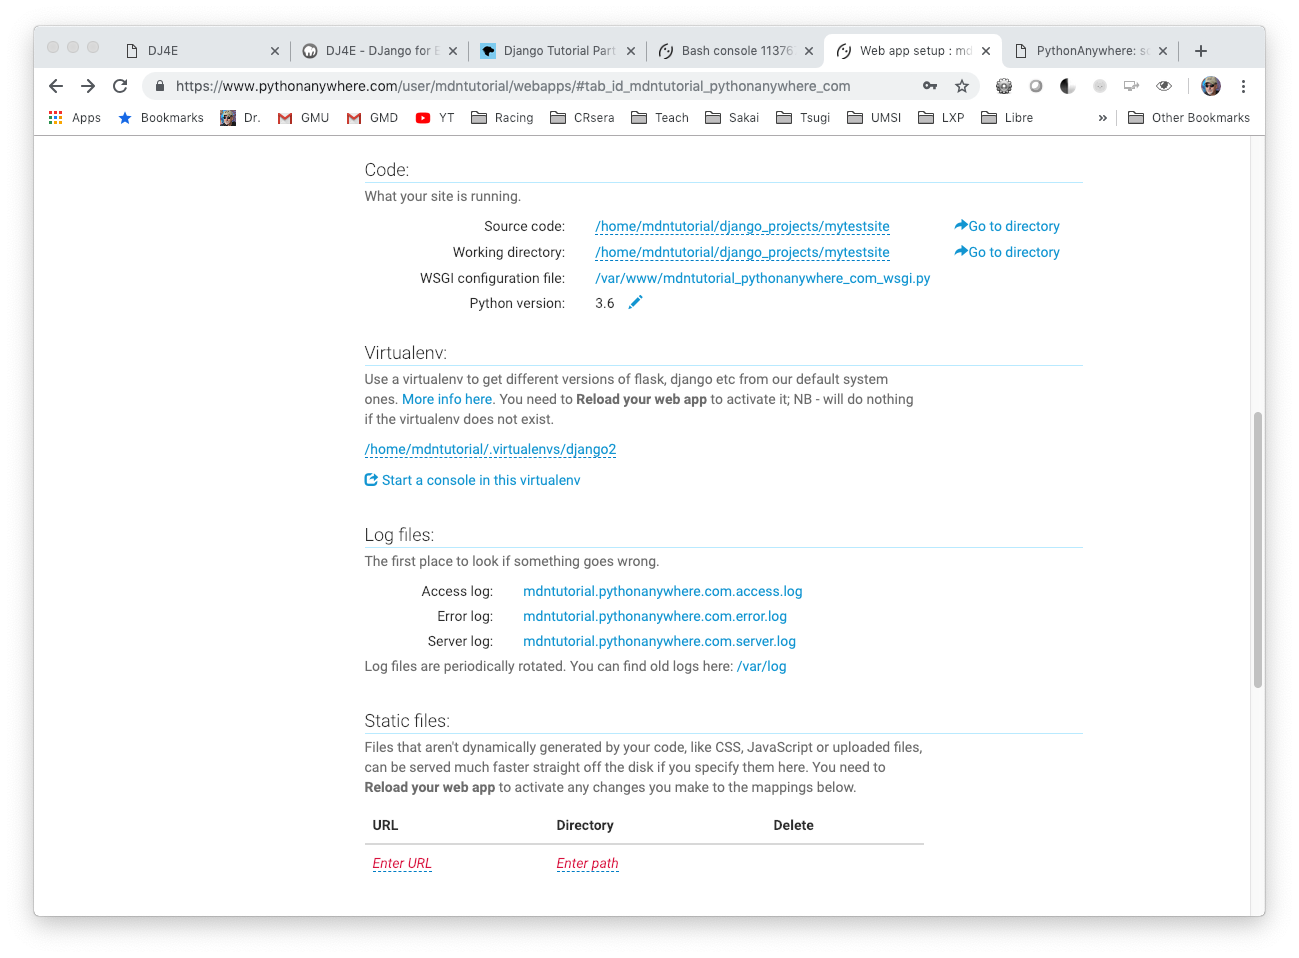
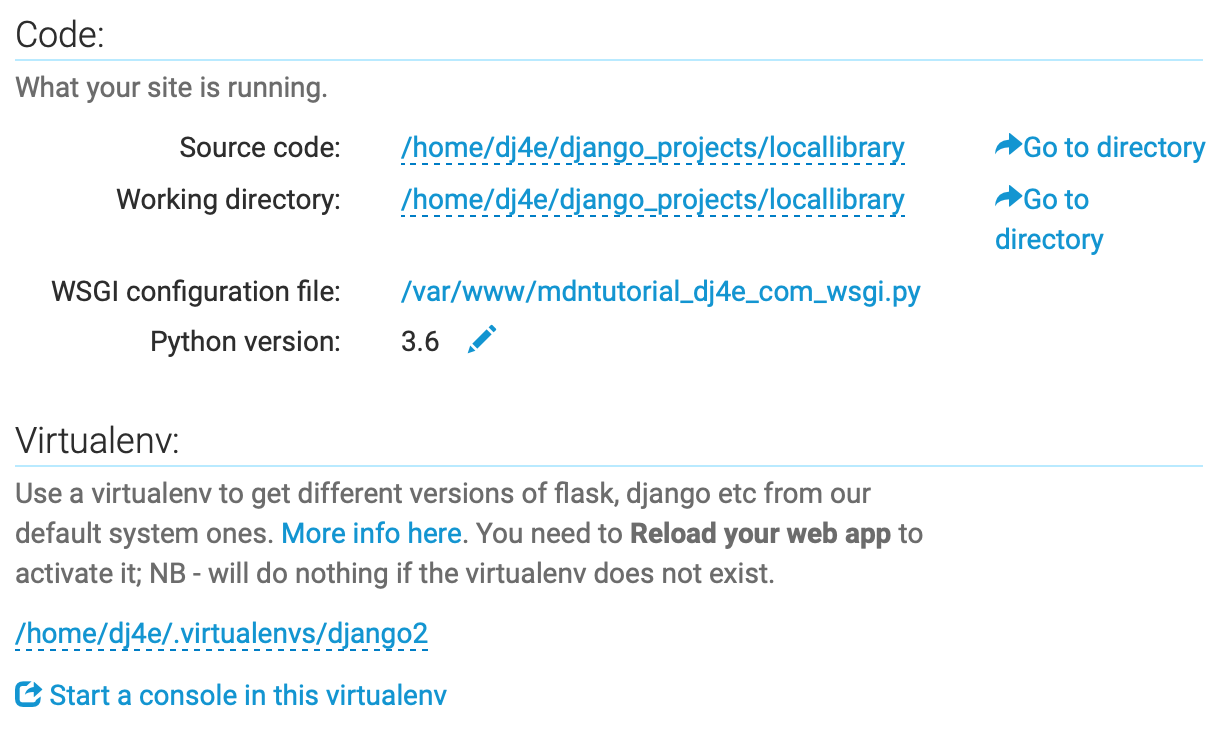
Updates

Changed region(s): [[0.0, 0.0301, 0.9894, 0.9945], [0.0309, 0.3616, 0.773, 0.5123], [0.0928, 0.2411, 0.2783, 0.3014]]

diff --git a/assn/paw_skeleton.md b/assn/paw_skeleton.md
@@ -79,14 +79,18 @@ at this point in time.  In the PYAW shell:
     python3 manage.py makemigrations
     python3 manage.py migrate
 
-Web Tab
+On the Web tab
+<a href="paw_skeleton/webapp_config.png" target="_blank">Sample image</a>,
+update the following values: 
 
-    Source code: /home/mdntutorial/django_projects/locallibrary
-    Working directory: /home/mdntutorial/django_projects/locallibrary
+    Source code: /home/dj4e/django_projects/locallibrary
+    Working directory: /home/dj4e/django_projects/locallibrary
 
-Edit and change 'mytestsite' to 'locallibrary' (Twice)
+Change `dj4e` above to your PythonAnywhere account name.
 
-    WSGI configuration file:/var/www/mdntutorial_pythonanywhere_com_wsgi.py
+Edit and change 'mytestsite' to 'locallibrary' (Twice) in the 
+WGSI configuration file. The virtual environment should already be
+set up and does not need to change.
 
 The `Reload` your web application and visit its url to make sure you get the expected output.
 
